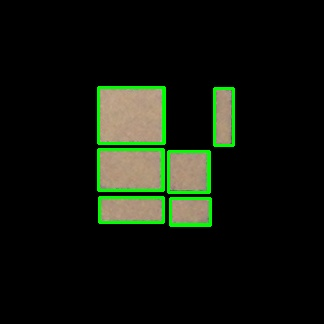
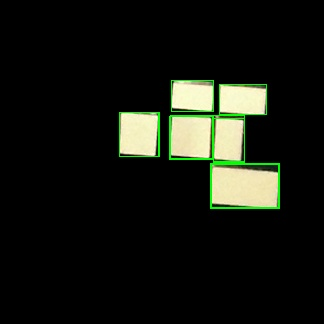
trying fixes

Changed region(s): [[0.2778, 0.2469, 0.8642, 0.7099]]

diff --git a/src/gui/cleaning/mask.py b/src/gui/cleaning/mask.py
@@ -1,6 +1,6 @@
 import os
 import cv2
-import numpy as np
+# import numpy as np
 from .rectangle import process_image
 from .info import gather_info
 from .sort import process_coordinates
@@ -11,55 +11,55 @@ class ImageProcessor:
         self.image_path = image_path
         self.image = cv2.imread(image_path)
         self.original_image = self.image.copy()
-        self.hsv = cv2.cvtColor(self.image, cv2.COLOR_BGR2HSV)
-        self.mask = None
-        self.rectangles = []
+        # self.hsv = cv2.cvtColor(self.image, cv2.COLOR_BGR2HSV)
+        # self.mask = None
+        # self.rectangles = []
         self.save_dir = os.path.join(os.path.dirname(__file__), "samples")
 
-    def create_white_mask(self, lower_white, upper_white):
-        white_mask = cv2.inRange(self.hsv, lower_white, upper_white)
-        kernel = np.ones((5, 5), np.uint8)
-        self.mask = cv2.morphologyEx(white_mask, cv2.MORPH_CLOSE, kernel)
+    # def create_white_mask(self, lower_white, upper_white):
+    #     white_mask = cv2.inRange(self.hsv, lower_white, upper_white)
+    #     kernel = np.ones((5, 5), np.uint8)
+    #     self.mask = cv2.morphologyEx(white_mask, cv2.MORPH_CLOSE, kernel)
 
-    def detect_rectangles(self):
-        gray = cv2.cvtColor(self.image, cv2.COLOR_BGR2GRAY)
-        blurred = cv2.GaussianBlur(gray, (5, 5), 0)
-        edges = cv2.Canny(blurred, 50, 150)
+    # def detect_rectangles(self):
+    #     gray = cv2.cvtColor(self.image, cv2.COLOR_BGR2GRAY)
+    #     blurred = cv2.GaussianBlur(gray, (5, 5), 0)
+    #     edges = cv2.Canny(blurred, 50, 150)
+    #
+    #     contours, _ = cv2.findContours(edges, cv2.RETR_TREE, cv2.CHAIN_APPROX_SIMPLE)
+    #
+    #     for contour in contours:
+    #         epsilon = 0.02 * cv2.arcLength(contour, True)
+    #         approx = cv2.approxPolyDP(contour, epsilon, True)
+    #
+    #         if len(approx) == 4 and cv2.isContourConvex(approx):
+    #             area = cv2.contourArea(approx)
+    #             if area > 500:
+    #                 x, y, w, h = cv2.boundingRect(approx)
+    #                 self.rectangles.append((x, y, x + w, y + h))
 
-        contours, _ = cv2.findContours(edges, cv2.RETR_TREE, cv2.CHAIN_APPROX_SIMPLE)
-
-        for contour in contours:
-            epsilon = 0.02 * cv2.arcLength(contour, True)
-            approx = cv2.approxPolyDP(contour, epsilon, True)
-
-            if len(approx) == 4 and cv2.isContourConvex(approx):
-                area = cv2.contourArea(approx)
-                if area > 500:
-                    x, y, w, h = cv2.boundingRect(approx)
-                    self.rectangles.append((x, y, x + w, y + h))
-
-    def apply_masks_and_save(self, output_path):
-        if self.mask is None:
-            print("Mask has not been created.")
-
-        if not self.rectangles:
-            print("No rectangles detected.")
-            return False
-
-        mask = np.zeros(self.image.shape[:2], dtype=np.uint8)
-
-        for rect in self.rectangles:
-            cv2.rectangle(mask, (rect[0], rect[1]), (rect[2], rect[3]), 255, -1)
-
-        result = np.zeros_like(self.image)
-        result[mask == 255] = self.image[mask == 255]
-        result[self.mask > 0] = [255, 0, 255]
-
-        if cv2.imwrite(output_path, result):
-            print(f"Image saved successfully at {output_path}")
-        else:
-            print(f"Failed to save image at {output_path}")
-        return True
+    # def apply_masks_and_save(self, output_path):
+    #     if self.mask is None:
+    #         print("Mask has not been created.")
+    #
+    #     if not self.rectangles:
+    #         print("No rectangles detected.")
+    #         return False
+    #
+    #     mask = np.zeros(self.image.shape[:2], dtype=np.uint8)
+    #
+    #     for rect in self.rectangles:
+    #         cv2.rectangle(mask, (rect[0], rect[1]), (rect[2], rect[3]), 255, -1)
+    #
+    #     result = np.zeros_like(self.image)
+    #     result[mask == 255] = self.image[mask == 255]
+    #     result[self.mask > 0] = [255, 0, 255]
+    #
+    #     if cv2.imwrite(output_path, result):
+    #         print(f"Image saved successfully at {output_path}")
+    #     else:
+    #         print(f"Failed to save image at {output_path}")
+    #     return True
 
     def process_additional_steps(self, intermediate_path, final_path, wall_text, sorted_wall_text):
         image = cv2.imread(intermediate_path)
@@ -77,17 +77,17 @@ class ImageProcessor:
         return is_correct, x_y_matrix, width_height_matrix
 
     def process(self):
-        lower_white = np.array([0, 0, 200])
-        upper_white = np.array([180, 55, 255])
-
-        self.create_white_mask(lower_white, upper_white)
-        self.detect_rectangles()
-
-        if not self.apply_masks_and_save(os.path.join(self.save_dir, "res.jpg")):
-            return False, None, None
+        # lower_white = np.array([0, 0, 200])
+        # upper_white = np.array([180, 55, 255])
+        #
+        # self.create_white_mask(lower_white, upper_white)
+        # self.detect_rectangles()
+        #
+        # if not self.apply_masks_and_save(os.path.join(self.save_dir, "res.jpg")):
+        #     return False, None, None
 
         is_correct, x_y_matrix, width_height_matrix = self.process_additional_steps(
-            os.path.join(self.save_dir, "res.jpg"),
+            os.path.join(self.save_dir, self.image_path),
             os.path.join(self.save_dir, "res2.jpg"),
             os.path.join(self.save_dir, "wall.txt"),
             os.path.join(self.save_dir, "wall_sorted.txt")

diff --git a/src/gui/model.py b/src/gui/model.py
@@ -91,28 +91,39 @@ class Camera(QObject):
         img_processor = ImageProcessor(os.path.join(self.save_dir, "temp.jpg"))
 
         clean, posit, size = img_processor.process()  # function call
-        if not clean:
-            log.warning("Cleaning failed")
-            self.update_text("Taking image failed. Please try again.")
-            return
+        #if not clean:
+        #    log.warning("Cleaning failed")
+        #    self.update_text("Taking image failed. Please try again.")
+        #    return
 
         res = np.empty((3, 3), dtype=object)
 
         # Get depth from stored kinect frame and merge
-        depth = self.captured_frame.getFrame(Frame.DEPTH)
+        depth_data = self.captured_frame.getFrame(Frame.DEPTH).getDepthData()
+        depth_data = np.fliplr(depth_data)  # Apply fliplr ONCE
+
+        res = np.empty((3, 3), dtype=object)  # Use object dtype to store tuples
 
         for i in range(3):
             for j in range(3):
                 x, y = posit[i][j]
                 h, w = size[i][j]
-                depth = depth[i + h // 2, j + w //2]
-                res[i, j] = (size[i][j], depth)
 
-        FaceData.add_data(size)
-        face_data_path = os.path.join(self.save_dir, "data.json")
-        with open(face_data_path, 'w') as f:
-            json.dump(FaceData.get_data(), f)
-        print(f"Face data written to {face_data_path}")
+                # Correctly extract the depth value using x and y:
+                # Handle potential out-of-bounds errors:
+                y_center = y - h // 2
+                x_center = x - w // 2
+
+                if 0 <= y_center < depth_data.shape[0] and 0 <= x_center < depth_data.shape[1]:
+                    depth_value = depth_data[y_center, x_center]
+                    res[i, j] = (size[i][j], depth_value)
+                else:
+                    print(
+                        f"Warning: Coordinates ({x_center}, {y_center}) are out of bounds for depth data shape {depth_data.shape}")
+                    res[i, j] = (size[i][j], -1)  # Or some default value
+
+        FaceData.add_data(res)
+        print(res)
 
         self.update_text(f"Image {FaceData.get_size()} captured successfully")
 

diff --git a/src/gui/cleaning/rectangle.py b/src/gui/cleaning/rectangle.py
@@ -31,6 +31,6 @@ def process_image(input_image_path, output_image_path):
         result[mask == 255] = image[mask == 255]
 
         for rect in rectangles:
-            cv2.rectangle(result, (rect[0], rect[1]), (rect[2], rect[3]), (0, 255, 0), 2)
+            cv2.rectangle(result, (rect[0], rect[1]), (rect[2], rect[3]), (0, 255, 0), 1)
             
         cv2.imwrite(output_image_path, result)
